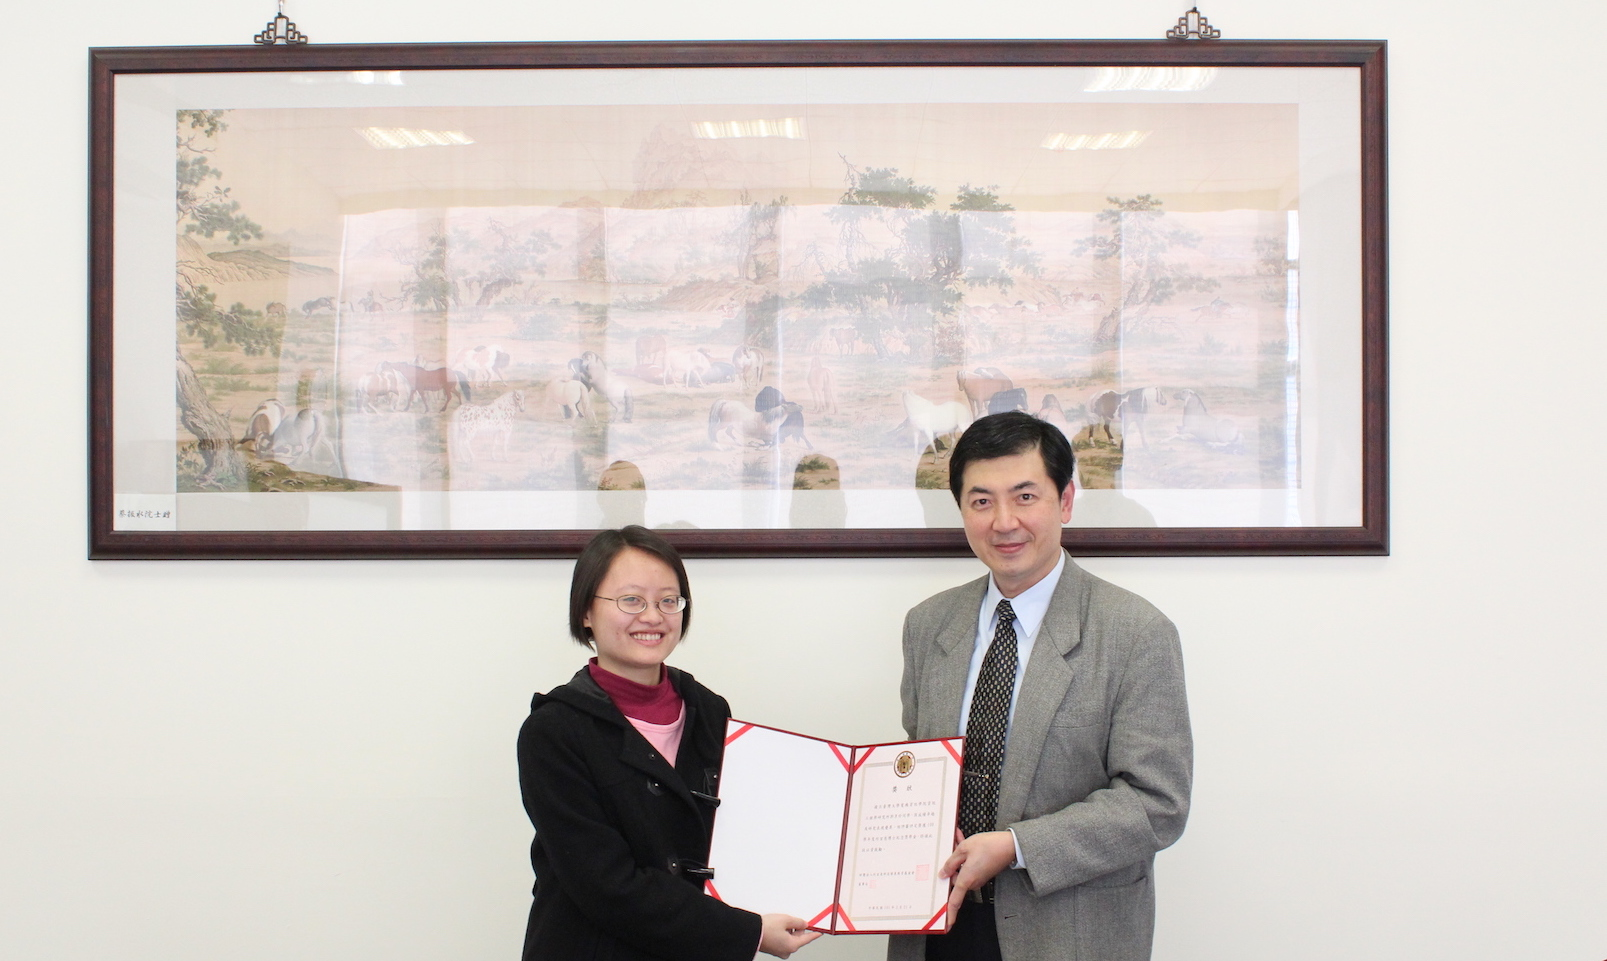
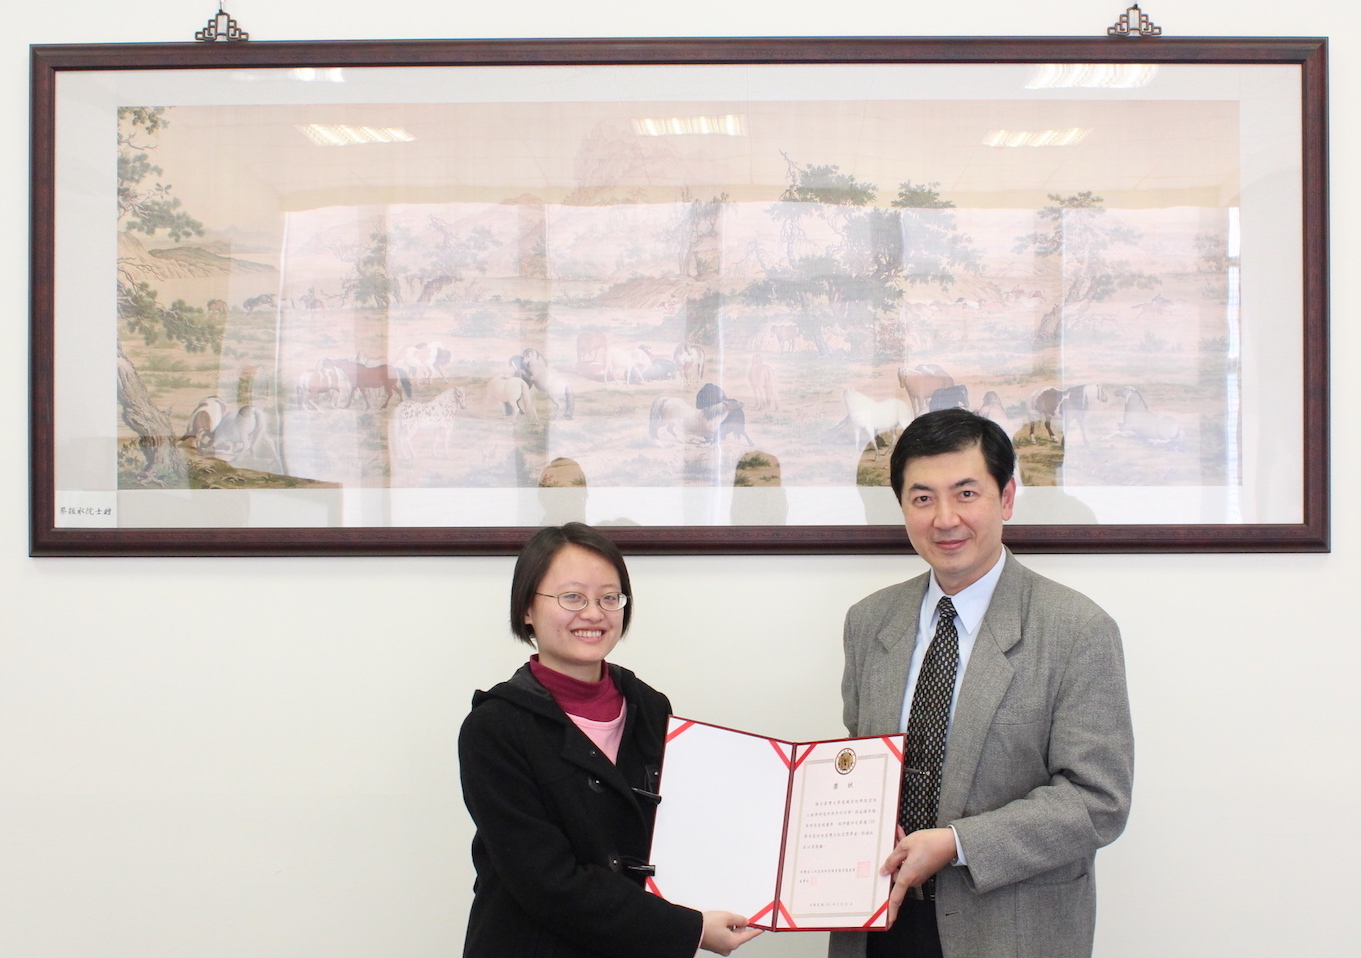
change image size and some text edits

diff --git a/app/publication.html b/app/publication.html
@@ -8,7 +8,7 @@
       <a href="pub/tiis2012.pdf" target="_blank">[pdf]</a>
       <a href="https://docs.google.com/presentation/d/1voIWsJpDqDALwMu2FFYWds3g92KwT7aJvnKoa00vT4I/edit" target="_blank">[presentation in IUI-2013]</a><br /> 
       <u>Yen-Ling Kuo</u> and Jane Yung-jen Hsu.<br />
-      <i>ACM Transactions on Interactive Intelligent Systems (TiiS-2012), Vol. 2, No. 3, Article 17, pp. 1-24, September, 2012</i>.
+      <i>ACM Transactions on Interactive Intelligent Systems (TiiS-2012), Vol. 2, No. 3, Article 17, pp. 1-24, September 2012</i>.
     </li>
   </ul>
 </section>
@@ -20,7 +20,7 @@
 	    <b>Capability Modeling of Knowledge-based Agents for Commonsense Knowledge Integration</b>.
       <a href="pub/prima2011.pdf" target="_blank">[pdf]</a><br /> 
       <u>Yen-Ling Kuo</u>, and Jane Yung-jen Hsu.<br />
-      <i>In Proceedings of the 14th International Conference on Principles and Practice of Multi-Agent Systems (PRIMA-2011), pp. 299-310, November, 2011</i>.
+      <i>In Proceedings of the 14th International Conference on Principles and Practice of Multi-Agent Systems (PRIMA-2011), pp. 299-310, November 2011</i>.
     </li>
 
 	  <li>
@@ -28,7 +28,7 @@
       <a href="pub/ijcai2011.pdf" target="_blank">[pdf]</a> 
 	    <a href="pub/ijcai2011-poster.pdf" target="_blank">[poster]</a><br />
       <u>Yen-Ling Kuo</u> and Jane Yung-jen Hsu.<br />
-      <i>In Proceedings of the 22nd International Joint Conference on Artificial Intelligence (IJCAI-2011), pp. 2470-2475, July, 2011</i>.
+      <i>In Proceedings of the 22nd International Joint Conference on Artificial Intelligence (IJCAI-2011), pp. 2470-2475, July 2011</i>.
     </li>
   </ul>
 </section>
@@ -40,28 +40,28 @@
 	    <b>Contextual Commonsense Knowledge Acquisition from Social Content by Crowd-sourcing Explanations</b>.
       <a href="pub/hcomp2012.pdf" target="_blank">[pdf]</a><br /> 
       <u>Yen-Ling Kuo</u>, Jane Yung-jen Hsu, and Fuming Shih.<br />
-      <i>In Proceedings of the 4th Human Computation Workshop (HCOMP-2012), pp. 18-24, July, 2012</i>.
+      <i>In Proceedings of the 4th Human Computation Workshop (HCOMP-2012), pp. 18-24, July 2012</i>.
     </li>
 
 	  <li>
 	    <b>Goal-oriented Knowledge Collection</b>.
       <a href="pub/csk2010.pdf" target="_blank">[pdf]</a><br />
       <u>Yen-Ling Kuo</u> and Jane Yung-jen Hsu.<br />
-      <i>In Proceedings of the 2010 AAAI Fall Symposium Series on Common Sense Knowledge (CSK-2010), pp. 64-69. November, 2010</i>.
+      <i>In Proceedings of the 2010 AAAI Fall Symposium Series on Common Sense Knowledge (CSK-2010), pp. 64-69, November 2010</i>.
     </li>
 
 	  <li>
 	    <b>Bridging Common Sense Knowledge Bases with Analogy by Graph Similarity</b>. 
 	    <a href="pub/aaai2010.pdf" target="_blank">[pdf]</a><br />
 	    <u>Yen-Ling Kuo</u> and Jane Yung-jen Hsu.<br />
-	    <i>In 2010 AAAI Workshop on Collaboratively-Built Knowledge Sources and Artificial Intelligence (WikiAI-2010), pp. 20-25, July, 2010</i>.
+	    <i>In 2010 AAAI Workshop on Collaboratively-Built Knowledge Sources and Artificial Intelligence (WikiAI-2010), pp. 20-25, July 2010</i>.
 	  </li>
 
 	  <li>
 	    <b>Community-based Game Design: Experiments on Social Games for Commonsense Data Collection</b>. 
 	    <a href="pub/hcomp2009.pdf" target="_blank">[pdf]</a><br />
 	    <u>Yen-Ling Kuo</u>, Kai-yang Chiang, Cheng-wei Chan, Jong-Chuan Lee, Rex Wang, Edward Shen, and Jane Yung-jen Hsu.<br />
-	    <i>In KDD-09 Workshop on Human Computation (HCOMP-2009), pp. 15-22, June, 2009</i>.
+	    <i>In KDD-09 Workshop on Human Computation (HCOMP-2009), pp. 15-22, June 2009</i>.
 	  </li>
   </ul>
 </section>
@@ -74,35 +74,35 @@
       <b>Unsupervised sense clustering of related Chinese words</b>.
       <a href="pub/jsai2013.pdf" target="_blank">[pdf]</a><br /> 
       Chia-Ling Lee, <u>Yen-Ling Kuo</u>, Chia-Mau Ni, Yu-Ju Chen, Chao-Lin Liu, and Jane Yung-jen Hsu.<br />
-      <i>In Proceedings of the 27th Annual Meeting of Japanese Society for Artificial Intelligence. June 2013</i>.
+      <i>In Proceedings of the 27th Annual Meeting of Japanese Society for Artificial Intelligence, pp. 4-7, June 2013</i>.
     </li>
 
     <li>
       <b>Utilizing Descriptive Documents for Adaptive and Reconfigurable M2M Systems</b>.
       <a href="pub/soca2012.pdf" target="_blank">[pdf]</a><br /> 
       I-lung Tsai, Wan-rong Jih, <u>Yen-Ling Kuo</u>, Jane Yung-jen Hsu, and Richard Tzong-han Tsai.<br />
-      <i>In Proceedings of the 5th IEEE International Conference on Service Oriented Computing & Applications (SOCA 2012). December, 2012</i>.
+      <i>In Proceedings of the 5th IEEE International Conference on Service Oriented Computing & Applications (SOCA-2012), pp. 1-4, 17-19, December 2012</i>.
     </li>
 
     <li>
       <b>Scenario-based Configuration Agents for M2M Applications</b>.
       <a href="pub/taai2012.pdf" target="_blank">[pdf]</a><br /> 
       I-lung Tsai, Wan-rong Jih, <u>Yen-Ling Kuo</u>, Jane Yung-jen Hsu, and Richard Tzong-han Tsai.<br />
-      <i>In Proceedings of the 2012 Conference on Technologies and Applications of Artificial Intelligence (TAAI 2012). November, 2012</i>.
+      <i>In Proceedings of the 2012 Conference on Technologies and Applications of Artificial Intelligence (TAAI-2012), November 2012</i>.
     </li>
 
     <li>
       <b>Contextual Restaurant Recommendation Utilizing Implicit Feedback</b>.
       <a href="pub/jsai2012.pdf" target="_blank">[pdf]</a><br /> 
       Wei-Ti Kuo, <u>Yen-Ling Kuo</u>, Jane Yung-jen Hsu, and Richard Tzong-han Tsai.<br />
-      <i>In Proceedings of the 26th Annual Conference of Japanese Society for Artificial Intelligence. June, 2012</i>.
+      <i>In Proceedings of the 26th Annual Conference of Japanese Society for Artificial Intelligence, June 2012</i>.
     </li>
 
     <li>
       <b>ACTraversal: Graph Traversal for Ranking Commonsense Assertions and Certifications</b>.
       <a href="pub/prima2011-act.pdf" target="_blank">[pdf]</a><br /> 
       Tao-Hsuan Chang, <u>Yen-Ling Kuo</u>, and Jane Yung-jen Hsu.<br />
-      <i>In Proceedings of the 14th International Conference on Principles and Practice of Multi-Agent Systems (PRIMA-2011). November, 2011</i>.
+      <i>In Proceedings of the 14th International Conference on Principles and Practice of Multi-Agent Systems (PRIMA-2011), pp. 234-246, November 2011</i>.
     </li>
 
     <li>
@@ -110,7 +110,7 @@
       <a href="pub/aamas2011.pdf" target="_blank">[pdf]</a> 
       <a href="pub/aamas2011-poster.pdf" target="_blank">[poster]</a><br />
       Chien-Ju Ho, <u>Yen-Ling Kuo</u>, and Jane Yung-jen Hsu.<br />
-      <i>In Proceedings of the Tenth International Conference on Autonomous Agents and Multiagent Systems (AAMAS2011). May, 2011</i>.
+      <i>In Proceedings of the Tenth International Conference on Autonomous Agents and Multiagent Systems (AAMAS-2011), pp. 1279-1280, May 2011</i>.
     </li>
   </ul>
 </section>
@@ -121,14 +121,14 @@
     <li>
       <b>Coupled Semi-Supervised Learning for Chinese Knowledge Extraction</b>. <br /> 
       Leeheng Ma, Yi-Ting Tsao, <u>Yen-Ling Kuo</u>, and Jane Yung-jen Hsu.<br />
-      <i>In 2016 AAAI Workshop on Knowledge Extraction from Text (KET 2016). February, 2016</i>.
+      <i>In 2016 AAAI Workshop on Knowledge Extraction from Text (KET-2016), February 2016</i>.
     </li>
 
     <li>
       <b>Environment Design in Human Computation</b>.
       <a href="pub/css2010.pdf" target="_blank">[pdf]</a><br />
       Chien-Ju Ho, <u>Yen-Ling Kuo</u>, and Jane Yung-jen Hsu.<br />
-      <i>In 2010 NIPS Workshop on Computational Social Science and the Wisdom of Crowds (CSS2010). December, 2010</i>.
+      <i>In 2010 NIPS Workshop on Computational Social Science and the Wisdom of Crowds (CSS-2010), December 2010</i>.
     </li>
   </ul>
 </section>

diff --git a/app/project.html b/app/project.html
@@ -123,7 +123,7 @@
   	  <h3>MovISee</h3>
   	  <p>2014/09 - Present</p>
   	  <p>Collaboration: Yen-Ting Cho, Yen-Ting Yeh</p>
-  	  <p>MovISee is a digital software and platform for people to play and create individual games and videos with their own existing digital files. We use depth camera to create mixed reality for people to explore the selected information and ultimately transform people understanding of their body movement as means to composite customized visual output.</p>
+  	  <p>MovISee is a digital software and platform for people to play and create individual games and videos with their own existing digital files. We use depth camera to create mixed reality for people to explore the selected information and ultimately transform understanding of people’s body movements as means to composite customized visual outputs.</p>
   	  <p>[<a href="http://www.movisee.com/" target="_blank">Video Gallery</a>]</p>
     </div>
   </article>
@@ -154,7 +154,7 @@
   	  <h3>Cubic Film</h3>
   	  <p>2013/01 - 2014/09</p>
   	  <p>Collaboration: Yen-Ting Cho, Yen-Ting Yeh</p>
-  	  <p>Cubic film is a system to layer film frames into pixel cube and provide different scanning mechanisms for users to experience moving images in new ways/dimensions. Each new scanning line produces a row of picture elements/pixels and disrupts the recorded time and spatial relationship.</p>
+  	  <p>Cubic film is a system to layer film frames into pixel cubes and provide different scanning mechanisms for users to experience moving images in new ways/dimensions. Each new scanning line produces a row of picture elements/pixels and disrupts the recorded time and spatial relationship.</p>
   	  <p>Sample cubic films:
   	  	<a href="http://vimeo.com/60115391" target="_blank">[1]</a> 
   	  	<a href="http://vimeo.com/58215334" target="_blank">[2]</a></p>
@@ -183,7 +183,7 @@
   	  <h3>Hand Painted Film Plus</h3>
   	  <p>2012/01 - 2012/09</p>
   	  <p>Collaboration: Yen-Ting Cho, Yen-Ting Yeh</p>
-  	  <p>Hand Painted Film Plus is a digital interface to create film strip, allowing participants to paint with camera, re-configuring the created sequence to explore new patterns and experiencing the transformation between time and space. Participants were especially surprised to see how static images moved and vice versa.</p>
+  	  <p>Hand Painted Film Plus is a digital interface to create film strips, allowing participants to paint with camera, re-configuring the created sequence to explore new patterns and experiencing the transformation between time and space. Participants were especially surprised to see how static images moved and vice versa.</p>
     </div>
   </article>
 </section>
@@ -216,7 +216,7 @@
       <h3>TaiwanUXD.org</h3>
       <p>2014/10 - 2015/03</p>
       <p>Collaboration: Jackie Lee</p>
-      <p>TaiwanUXD.org is crowdsourcing platform for project owners to ask questions to community members. Through the user answers and profiles, the platform identifies secrets for project owners to learn user's behavior to refine their products. It is also a website to list the projects and members of Bay Area Taiwan User Experience and Design Group.</p>
+      <p>TaiwanUXD.org is a crowdsourcing platform for project owners to ask questions to community members. Through the user answers and profiles, the platform identifies secrets for project owners to learn user's behavior to refine their products. It is also a website to list the projects and members of Bay Area Taiwan User Experience and Design Group.</p>
       <p>[<a href="http://taiwanuxd.org" target="_blank">Website</a>]</p>
     </div>
   </article>
@@ -236,7 +236,7 @@
     <div class="cell-text">
   	  <h3>Flora: Mobile Flower Image Recognition Service</h3>
   	  <p>2010/04 - 2011/07, <i>Gold Award of 2010 Hinet Telsoft Competition and 8th YuShow Cup Creativity Award</i></p>
-  	  <p>Flora is an iPhone application for ordinary people to identify what a flower is. Users just take a picture of the unknown flower, the app will automatically send picture to cloud, process image, then send back all information about this flower. Flora also has a build-in flower card collection game to promote interaction with flowers. Whenever user finds a flower, s/he is awarded with flower card to share with friends.</p>
+  	  <p>Flora is an iPhone application for ordinary people to identify what a flower is. A user just takes a picture of the unknown flower, the app will automatically send the picture to the cloud server, process its images, and then send all information about this flower back to the user. Flora also has a built-in flower card collection game to promote interactions with flowers. Whenever a user finds a flower, the user is awarded with a flower card to share with friends.</p>
   	  <p>[<a href="http://www.youtube.com/watch?v=JdAW3-qt-bo&feature=player_embedded" target="_blank">Demo Video</a>]</p>
     </div>
   </article>

diff --git a/app/home.html b/app/home.html
@@ -10,7 +10,7 @@
 
   <h3>Thank you for visiting Yen-Ling's website!</h3>
 
-  <p>I am currently a software engineer working in the <a href="www.google.com">Google</a> Mountain View, California headquarters. I joined the Google Shopping team in 2012 and have been working on development of new shopping ads features. I also spent a summer to work as an intern in Google Compare team in the Google Kirkland, Washington office, in 2011.</p>
+  <p>I am currently a software engineer working in the <a href="www.google.com">Google</a> Mountain View, California headquarters. I joined the Google Shopping team in 2012 and have been working on development of new shopping ads features. I also spent a summer to work as an intern in the Google Compare team in the Google Kirkland, Washington office, in 2011.</p>
 
   <p>Prior to joining Google, I was a master student in the <a href="http://agents.csie.ntu.edu.tw/" target="_blank">Intelligent Agents Lab</a> at <a href="http://www.ntu.edu.tw/" target="_blank">National Taiwan University</a> and a visiting student in the <a href="http://agents.media.mit.edu/" target="_blank">Software Agent Group</a> at <a href="https://www.media.mit.edu/" target="_blank">MIT Media Lab</a>. My research focuses on crowdsourcing, reasoning, and integration of commonsense knowledge for intelligent agents and user interfaces. My <a href="pub/thesis-master.pdf" target="_blank">master thesis</a> is the best summarization of the work.</p>
 

diff --git a/app/assets/css/main.css b/app/assets/css/main.css
@@ -224,6 +224,8 @@ ul.icons li .icon:before {
 .image.thumb-big {
   text-align: center;
   width: 350px;
+  height: 225px;
+  overflow: hidden;
 }
 
 .image.thumb-big:after {
@@ -415,7 +417,7 @@ ul.icons li .icon:before {
 #main {
   margin-left: 5%;
   margin-right: 5%;
-  max-width: 75em;
+  max-width: 63em;
   padding: 4.5em 0 4em 3em;
   /* width: calc(100% - 35%); */
 }
@@ -440,10 +442,12 @@ ul.icons li .icon:before {
 
 #main h2 {
   font-size: 1.3em;
+  font-weight: bold;
 }
 
 #main h3 {
   font-size: 1.2em;
+  font-weight: bold;
 }
 
 #main h4 {
@@ -894,6 +898,8 @@ ul.icons li .icon:before {
   .image.thumb-big {
     text-align: center;
     width: 255px;
+    height: 165px;
+    overflow: hidden;
   }
   .image.thumb-big img {
     width: 255px;
